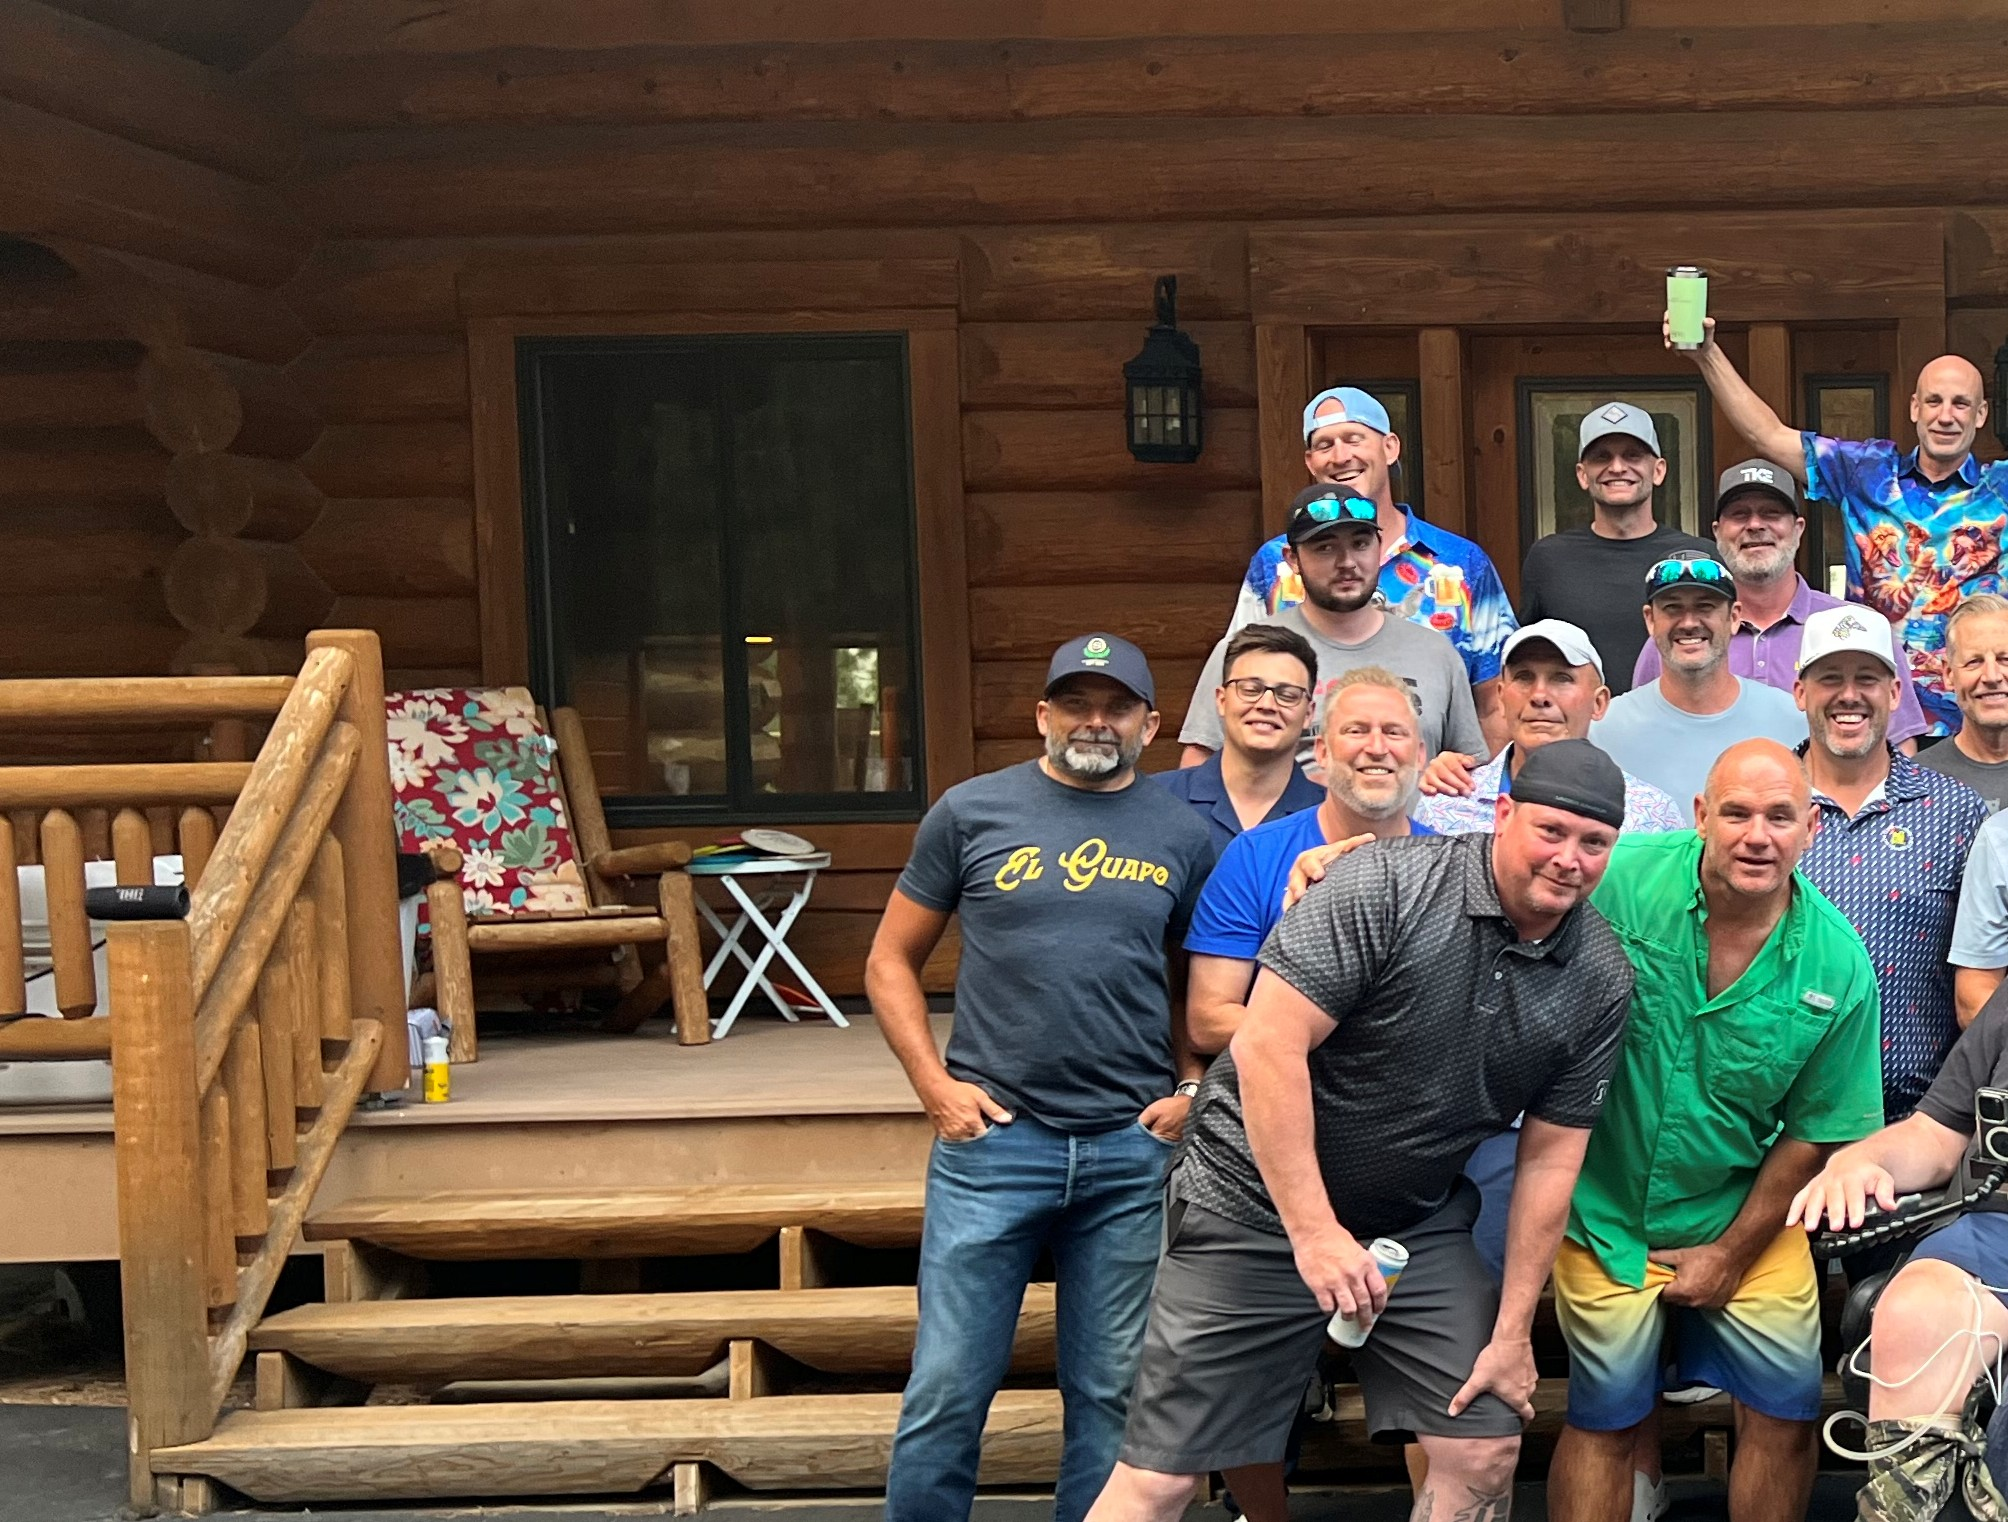
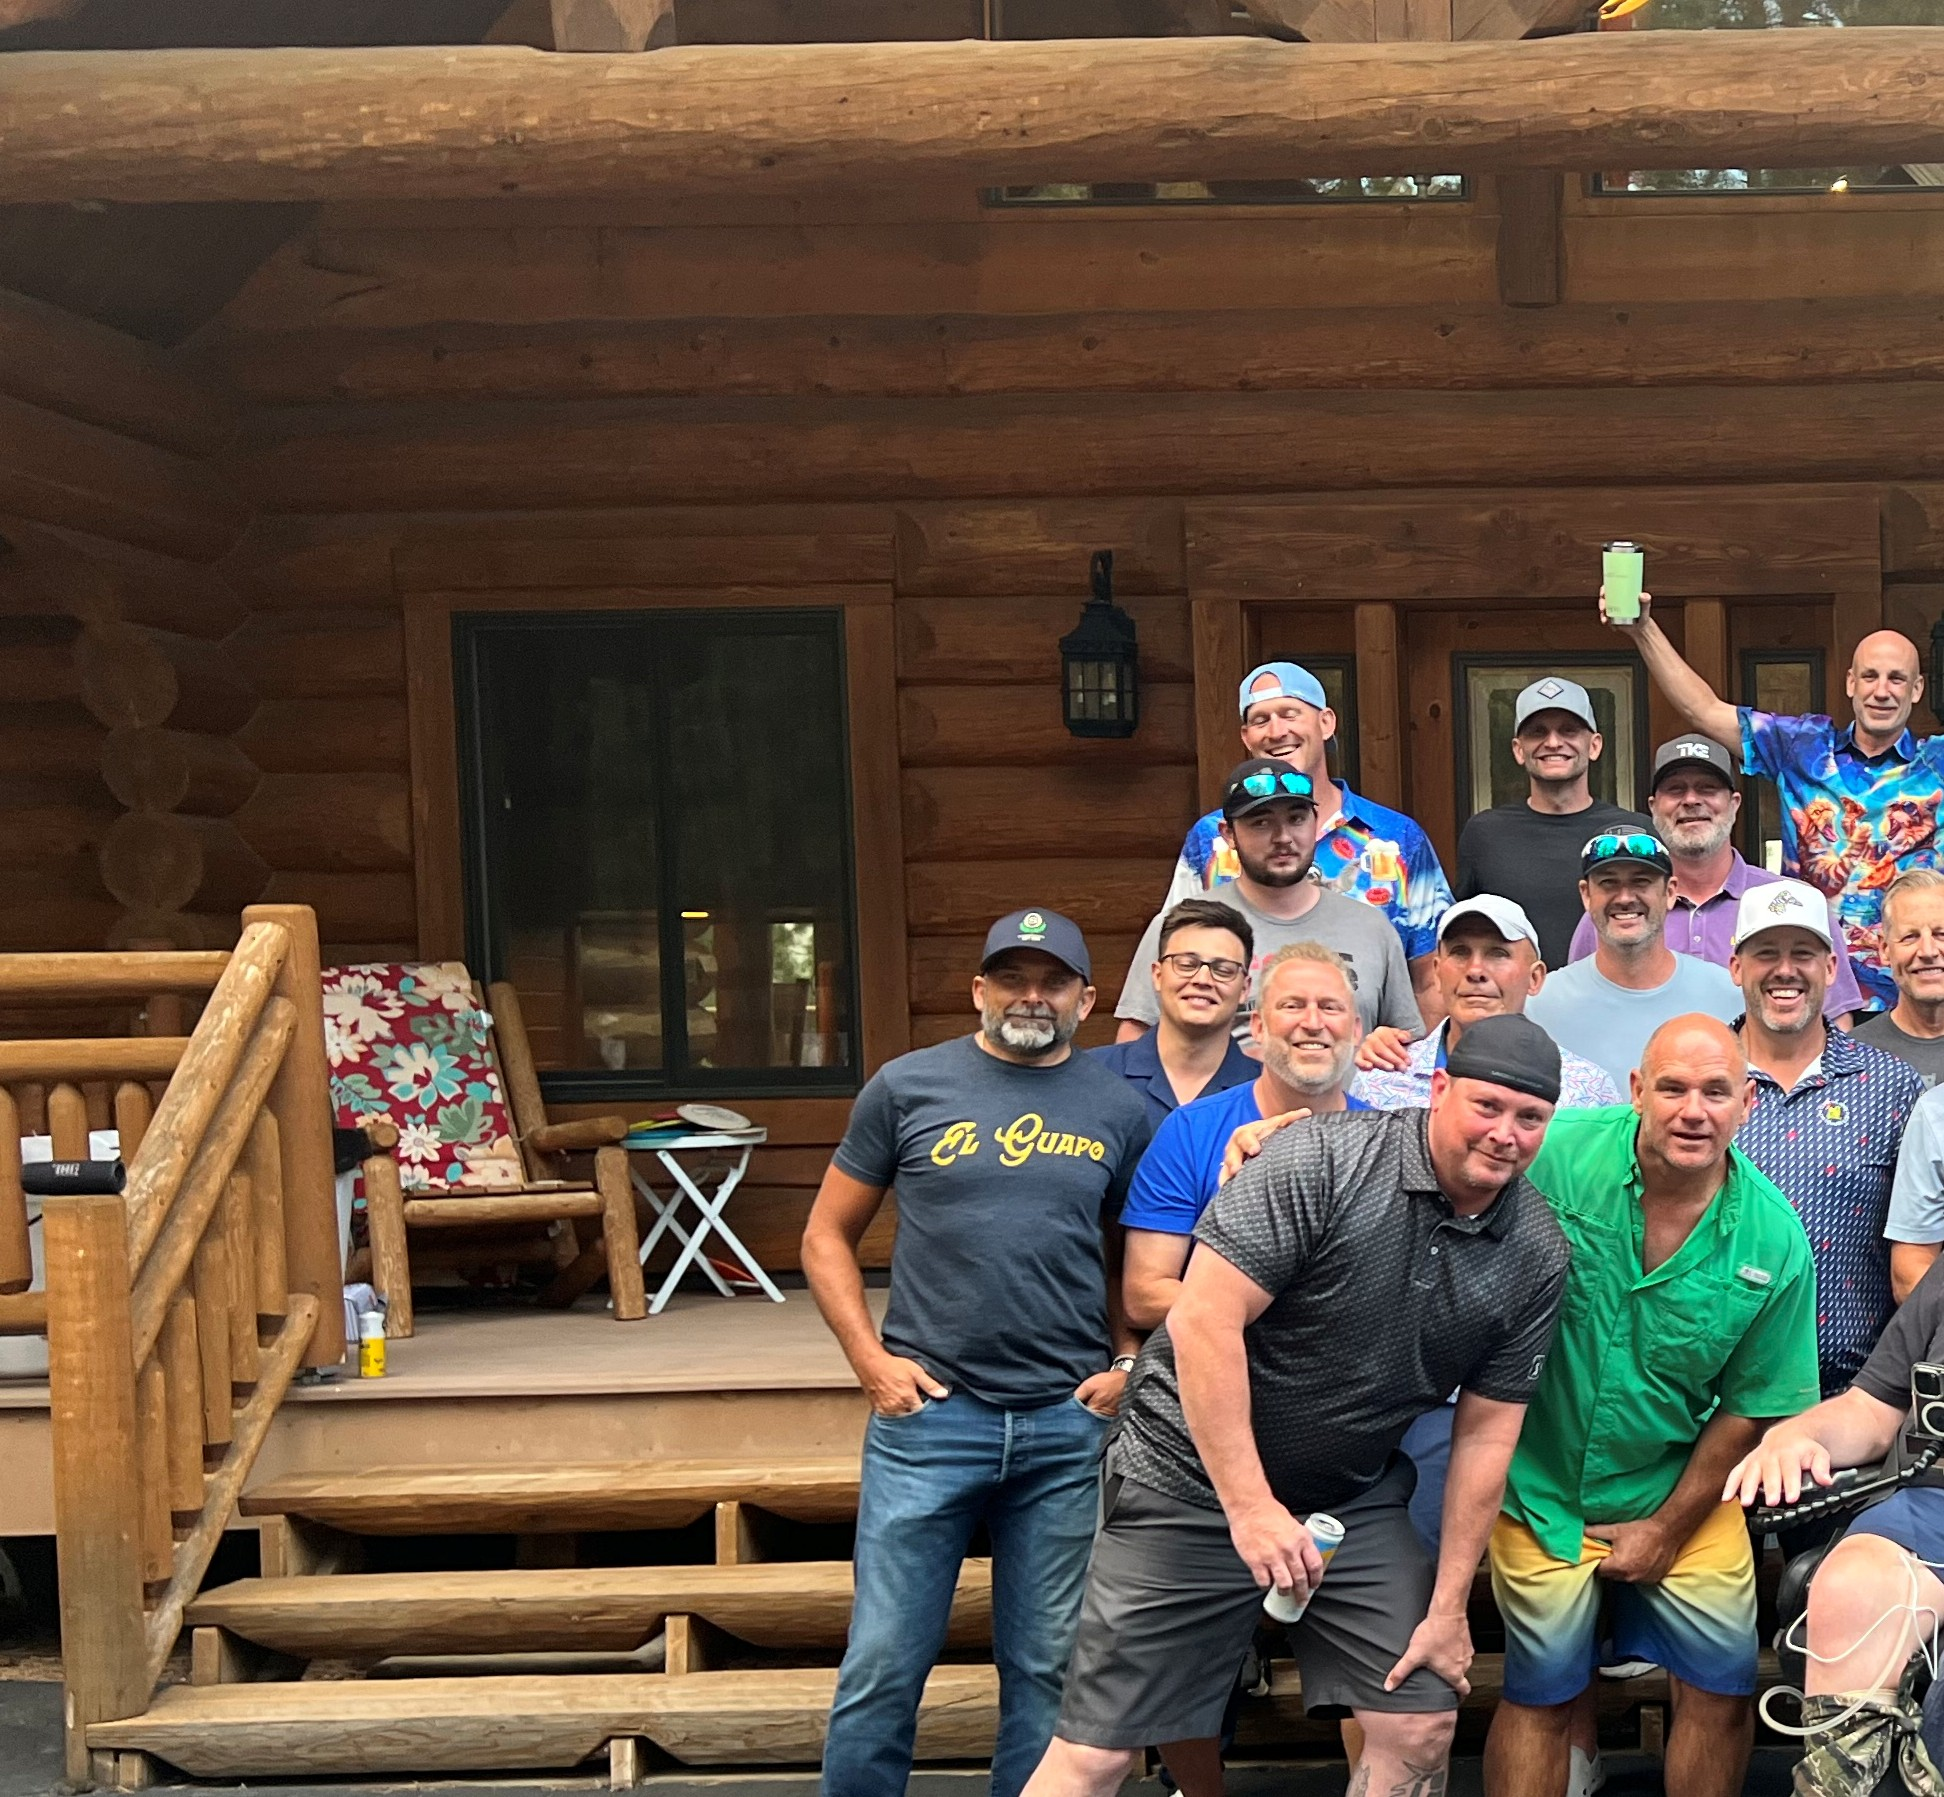
Add files via upload

diff --git a/public/index.html b/public/index.html
@@ -39,7 +39,7 @@
       overflow: hidden;
       background-image: url('cabin.jpg');
       background-size: cover;
-      background-position: center top;
+      background-position: center 55%;
       background-repeat: no-repeat;
     }
 